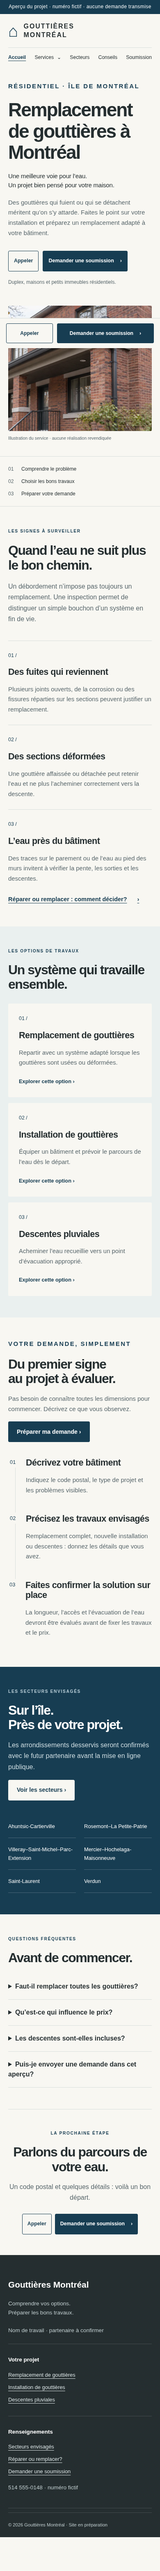
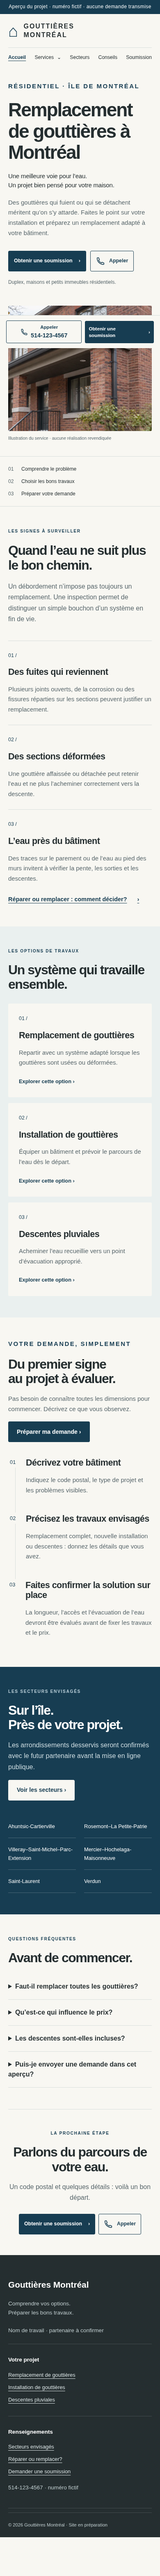
feat: emphasize mock phone calls on desktop and mobile

diff --git a/src/styles/global.css b/src/styles/global.css
@@ -1,3 +1,9 @@
 :root{--ink:#252e30;--blue:#173d52;--paper:#f8f7f2;--muted:#58666b;--line:#d8dedc;--soft:#eaf0ef}*{box-sizing:border-box}html{scroll-behavior:smooth;scroll-padding-bottom:110px}body{margin:0;background:var(--paper);color:var(--ink);font-family:Arial,Helvetica,sans-serif;line-height:1.65}a{color:inherit;text-underline-offset:4px}button,input,textarea,select{font:inherit}button,a,summary{-webkit-tap-highlight-color:transparent}button,summary{cursor:pointer}:focus-visible{outline:3px solid #bb6a23;outline-offset:5px}h1,h2,h3,p,figure{margin:0}h1,h2,h3{line-height:1.12;letter-spacing:-.045em}h1{font-size:clamp(2.7rem,4.1vw,4.45rem);font-weight:700}h2{font-size:clamp(2rem,3vw,3rem);font-weight:600}h3{font-size:1.35rem;letter-spacing:-.025em}p{margin:1.1rem 0;color:var(--muted)}.wrap{width:min(1240px,calc(100% - 96px));margin-inline:auto}.preview-notice{text-align:center;background:var(--blue);color:#fff;font-size:.75rem;padding:7px 16px;letter-spacing:.035em}.header-top{display:flex;align-items:center;gap:30px;padding-block:26px}.brand{display:flex;gap:12px;align-items:center;text-decoration:none;font-size:.86rem;line-height:1.3;letter-spacing:.12em}.brand strong{display:block;font-size:1.2rem;letter-spacing:.09em}.brand-mark{font-size:3rem;color:var(--blue);line-height:1}.header-note{font-size:.78rem;line-height:1.4;flex:1;margin:0;padding-left:25px;border-left:1px solid var(--line)}.actions{display:flex;flex-wrap:wrap;gap:12px;align-items:center}.button{display:inline-flex;align-items:center;justify-content:center;gap:15px;min-height:50px;padding:13px 20px;border:1px solid var(--blue);border-radius:3px;font-size:.88rem;font-weight:600;text-decoration:none;line-height:1.35}.button:hover{filter:brightness(.9)}.primary{background:var(--blue);color:white}.outline{background:transparent;color:var(--blue)}.light{background:var(--paper);color:var(--blue);border-color:var(--paper)}.compact .button{min-height:43px;font-size:.78rem;padding:10px 14px}.compact .phone-number{display:none}nav{display:flex;gap:38px;align-items:center;border-top:1px solid var(--line);padding-block:14px;font-size:.86rem}nav>a,summary{text-decoration:none}nav a[aria-current=page]{font-weight:700;color:var(--blue);text-decoration:underline}.services-menu{position:relative}.services-menu summary{list-style:none}.services-menu summary:after{content:'⌄';margin-left:8px}.services-menu>div{position:absolute;z-index:5;background:var(--paper);border:1px solid var(--line);padding:12px;min-width:255px;top:38px;box-shadow:0 12px 25px #173d5215}.services-menu a{display:block;padding:9px;text-decoration:none}.services-menu a:hover{background:var(--soft)}.hero{display:grid;grid-template-columns:1fr 1fr;gap:55px;align-items:center;padding-block:45px 65px}.eyebrow{color:var(--blue);font-weight:700;font-size:.71rem;letter-spacing:.16em;margin:0 0 23px}.hero h1{max-width:570px}.hero-copy>p:not(.eyebrow){max-width:480px}.lead{font-size:1.32rem;line-height:1.5;color:var(--ink);letter-spacing:-.015em;margin-top:25px}.hero .actions{margin-top:30px}.hero .actions .phone-number{display:none}.fine{font-size:.78rem}.service-photo{min-width:0;position:relative}.service-photo picture,.service-photo img{display:block;width:100%}.service-photo img{height:auto;object-fit:cover;aspect-ratio:1/1.07;object-position:67% center;border-radius:3px}.service-photo figcaption{font-size:.65rem;margin-top:9px;color:var(--muted)}.photo-pending{aspect-ratio:1/1.07;background:linear-gradient(145deg,#dce3e1,#b8c7cb);display:flex;flex-direction:column;justify-content:center;align-items:center;border-radius:3px}.photo-pending>span{font-size:6rem;line-height:1;color:var(--blue)}.photo-pending p{color:var(--blue);margin-bottom:0}.photo-pending small{color:var(--muted)}.principles{border-block:1px solid var(--line)}.principles>.wrap{display:flex;justify-content:space-between;gap:20px;padding-block:23px}.principles span{color:var(--muted);font-size:.8rem}.principles strong{color:var(--ink);margin-left:15px;font-weight:500}.section{padding-block:85px}.section-heading{display:grid;grid-template-columns:1.15fr 1fr;gap:0 100px;align-items:end;margin-bottom:38px}.section-heading .eyebrow{grid-column:1/-1;margin-bottom:20px}.section-heading p:not(.eyebrow){margin:0;max-width:460px}.cards{display:grid;grid-template-columns:repeat(3,1fr);gap:30px}.cards article{padding:30px 0;border-top:1px solid var(--line)}.number{font-size:.78rem;display:block;color:var(--blue);margin-bottom:30px}.cards h3{max-width:250px}.cards p{font-size:.93rem}.text-link{display:inline-flex;gap:25px;align-items:center;font-size:.9rem;color:var(--blue);font-weight:600}.tinted{background:var(--soft)}.service-cards{margin-top:40px}.service-cards>a{padding:30px;background:var(--paper);border-radius:3px;text-decoration:none;border:1px solid transparent}.service-cards>a:hover{border-color:var(--blue)}.service-cards .text-link{margin-top:12px;font-size:.8rem}.steps,.sectors-intro,.faq{display:grid;grid-template-columns:1fr 1fr;gap:100px}.steps>div>p{max-width:400px}.steps ol{margin:0;padding-left:32px;counter-reset:steps;list-style:none}.steps li{position:relative;padding:0 0 24px 25px;border-left:1px solid var(--line);counter-increment:steps}.steps li:before{content:'0' counter(steps);position:absolute;left:-17px;top:0;background:var(--paper);color:var(--blue);font-size:.8rem;padding:3px}.steps li:last-child{border:0;padding-bottom:0}.steps li h3{padding-top:3px}.steps p{font-size:.94rem}.blue{background:var(--blue);color:white}.blue p{color:#cedde2}.blue .eyebrow{color:#b9ced8}.sector-list{list-style:none;padding:0;margin:0;display:grid;grid-template-columns:1fr 1fr;gap:0 30px;align-content:center}.sector-list li{padding:17px 0;border-bottom:1px solid #ffffff38;font-size:.88rem}.faq details{border-bottom:1px solid var(--line);padding:19px 0}.faq summary{font-weight:600;line-height:1.5;padding-right:20px}.faq details p{font-size:.92rem}.closing{border-top:1px solid var(--line);padding-block:65px 80px;text-align:center}.closing .actions{justify-content:center;margin-top:25px}.closing .phone-number{display:none}footer{background:#252e30;color:white;padding-top:55px}.footer-grid{display:grid;grid-template-columns:1.5fr 1fr 1fr;gap:55px}footer p,footer small{color:#c0cdcf;font-size:.85rem}.footer-brand{font-size:1.3rem;font-weight:600;text-decoration:none}footer h2{font-size:.85rem;letter-spacing:0;margin-bottom:18px}footer .footer-grid>div>a:not(.footer-brand){display:block;font-size:.8rem;color:#dbe4e5;margin-block:9px}.footer-bottom{border-top:1px solid #ffffff25;margin-top:35px;padding-block:20px;font-size:.7rem;color:#c0cdcf}.mobile-actions{display:none}.skip{position:absolute;left:12px;top:-100px;padding:12px;background:white;z-index:20}.skip:focus{top:10px}dialog{border:1px solid var(--line);border-radius:5px;background:var(--paper);color:var(--ink);max-width:min(480px,90vw);padding:30px}dialog::backdrop{background:#162d3bc0}dialog h2{font-size:1.8rem}.article-head{padding-block:65px 45px;max-width:1000px}.article-head h1{max-width:850px}.article-head>p{max-width:740px}.article-layout{display:flex;gap:65px;align-items:flex-start;padding-bottom:85px}.prose{max-width:760px}.prose section{margin-bottom:42px}.prose h2,.sectors-page h2{font-size:1.8rem}.prose aside{border-top:1px solid var(--line);padding-top:35px}.article-layout>.service-photo{flex:1;min-width:30%;position:sticky;top:25px}.article-layout:has(.service-photo)>.prose{flex:1;max-width:650px}.sectors-page{padding-top:0;max-width:1000px}.sectors-page .sector-list{margin:25px 0 55px}.sectors-page li{border-color:var(--line)}.quote-layout{display:grid;grid-template-columns:1fr 1fr;gap:85px;padding-block:65px 85px}.quote-layout h1{font-size:clamp(2.6rem,4vw,4rem)}.recipient{border-top:1px solid var(--line);margin-top:35px;padding-top:25px}.recipient h2{font-size:1.2rem;letter-spacing:-.02em}.recipient p{font-size:.9rem}.form-card{background:white;border:1px solid var(--line);padding:32px;border-radius:4px}.form-notice{background:var(--soft);padding:15px;font-size:.86rem;margin-top:0}label{display:block;font-size:.88rem;font-weight:600;margin:18px 0 6px}label span{font-weight:400}input,select,textarea{display:block;width:100%;border:1px solid #849297;border-radius:3px;padding:11px;background:white;color:var(--ink)}textarea{resize:vertical}form small{font-size:.75rem;color:var(--muted)}form>.button{margin-top:23px;width:100%}button:disabled{opacity:.6;cursor:wait}#form-status:empty{display:none}#form-status{font-size:.9rem;background:var(--soft);padding:15px}.consent{display:flex;gap:10px;font-weight:400}.consent input{width:18px;flex-shrink:0;margin-top:6px}@media(min-width:1500px){.hero{padding-block:65px 80px}}@media(max-width:1000px){.wrap{width:calc(100% - 48px)}.header-note{display:none}.header-top{justify-content:space-between}.hero{gap:28px}.hero .actions{gap:10px}.section-heading{gap:0 45px}.cards{gap:20px}.service-cards>a{padding:22px}.steps,.sectors-intro,.faq{gap:40px}.quote-layout{gap:35px}.article-layout{gap:35px}.footer-grid{gap:25px}}@media(max-width:700px){body{padding-bottom:calc(82px + env(safe-area-inset-bottom))}.wrap{width:calc(100% - 40px)}.header-top{padding-block:20px}.header-top>.actions{display:none}.brand{font-size:.73rem}.brand strong{font-size:1rem}.brand-mark{font-size:2.5rem}nav{gap:0;justify-content:space-between;font-size:.76rem;padding-block:13px}.services-menu>div{left:-65px;top:32px}.hero{grid-template-columns:1fr;gap:28px;padding-block:35px}.hero h1{font-size:clamp(2.35rem,11.8vw,2.9rem);max-width:480px}.eyebrow{font-size:.64rem;margin-bottom:19px}.lead{font-size:1.16rem;margin-top:20px}.hero-copy>p{font-size:.94rem}.hero .actions{align-items:stretch}.hero .button{font-size:.78rem;padding-inline:13px}.hero .fine{font-size:.75rem}.service-photo img,.photo-pending{aspect-ratio:1.15/1}.service-photo img{object-position:68% center}.principles>.wrap{display:grid;gap:10px;padding-block:20px}.principles span{font-size:.76rem}.section{padding-block:52px}.section-heading{display:block}.section-heading>p:not(.eyebrow){margin-top:20px}.cards{grid-template-columns:1fr;gap:0}.cards article{padding-block:25px}.cards h3{max-width:none}.number{margin-bottom:18px}.cards p{margin-bottom:0}.service-cards{gap:14px;margin-top:28px}.service-cards>a{padding:25px}.service-cards .text-link{margin-top:22px}.steps,.sectors-intro,.faq{grid-template-columns:1fr;gap:35px}.steps ol{padding-left:17px}.sector-list{grid-template-columns:1fr}.sectors-intro .sector-list{grid-template-columns:1fr 1fr;gap:0 20px}.sector-list li{font-size:.8rem}.faq{gap:20px}.closing{padding-block:50px}.closing h2{font-size:2rem}.closing .button{font-size:.77rem;padding-inline:12px}.closing .actions{gap:8px}.footer-grid{grid-template-columns:1fr;gap:30px}.footer-grid>div{border-bottom:1px solid #ffffff25;padding-bottom:20px}.footer-bottom{margin-top:10px}.mobile-actions{position:fixed;bottom:0;left:0;right:0;z-index:10;display:block;background:var(--paper);border-top:1px solid var(--line);padding:12px 15px calc(12px + env(safe-area-inset-bottom))}.mobile-actions .actions{display:grid;grid-template-columns:.65fr 1.35fr;gap:10px}.mobile-actions .button{min-height:48px;font-size:.76rem;padding:10px 8px}.article-head{padding-block:40px 30px}.article-head h1{font-size:2.65rem}.article-layout{display:flex;flex-direction:column;padding-bottom:55px;gap:25px}.article-layout>.service-photo{position:static;width:100%;order:-1}.prose h2,.sectors-page h2{font-size:1.65rem}.prose .actions{align-items:stretch;flex-direction:column}.prose .phone-number{display:none}.quote-layout{grid-template-columns:1fr;gap:30px;padding-block:40px 55px}.form-card{padding:23px}.sectors-page{padding-top:0}.sectors-page .sector-list{margin-top:20px}}@media(prefers-reduced-motion:reduce){html{scroll-behavior:auto}}
 
 .brand-name{display:block;max-width:160px;font-weight:700;font-size:1rem;line-height:1.3;text-transform:uppercase;letter-spacing:.12em}
+
+/* Appels de la maquette : numéro centralisé et zones cliquables complètes. */
+.call-button{gap:10px}.call-copy{display:flex;align-items:center;gap:8px}.call-copy small{font-size:.65rem;font-weight:400;letter-spacing:0}
+.prominent .call-button{border:0;padding:4px 0 4px 20px;text-align:right}.prominent .call-copy{display:flex;flex-direction:column;align-items:flex-end;gap:2px}.prominent .phone-number{display:block;font-size:1.8rem;font-weight:800;line-height:1.15;white-space:nowrap}.prominent .call-label{font-size:.75rem;font-weight:500}.prominent .phone-icon{width:29px;height:29px}.prominent .primary{align-self:center}.hero .phone-number,.closing .phone-number{display:none}
+@media(max-width:1000px) and (min-width:701px){.prominent .phone-number{font-size:1.5rem}.prominent .primary{font-size:.73rem;padding-inline:10px}}
+@media(max-width:700px){.mobile-actions .actions{grid-template-columns:1.1fr 1fr;gap:8px}.mobile-actions .call-button{order:-1;padding:8px;gap:7px}.mobile-actions .call-copy{display:flex;flex-direction:column;gap:2px}.mobile-actions .phone-number{display:block;font-size:.9rem;font-weight:800;white-space:nowrap}.mobile-actions .call-label{font-size:.72rem}.mobile-actions .phone-icon{width:18px;height:18px}.mobile-actions .primary{font-size:.73rem}.mobile-actions .button{min-height:54px}body{padding-bottom:calc(94px + env(safe-area-inset-bottom))}}

diff --git a/src/scripts/client.ts b/src/scripts/client.ts
@@ -2,7 +2,7 @@ declare global { interface Window { dataLayer?: Record<string, unknown>[] } }
 export function track(event: string) { (window.dataLayer ||= []).push({ event, page_path: location.pathname }); }
 export function init() {
  document.querySelectorAll<HTMLElement>('[data-call]').forEach(el => el.addEventListener('click', () => {
-  if (el instanceof HTMLAnchorElement) track('call_click');
+  if (el instanceof HTMLAnchorElement) { if (el.dataset.mockCall !== 'true') track('call_click'); }
   else (document.querySelector('#call-dialog') as HTMLDialogElement).showModal();
  }));
  const form = document.querySelector<HTMLFormElement>('#quote-form');

diff --git a/README.md b/README.md
@@ -59,13 +59,11 @@ La compilation refuse une indexation sans mode production, URL publique valide e
 
 ## Appels et suivi
 
-Le numéro livré `514 555-0148` est fictif. En aperçu, « Appeler » ouvre une boîte de dialogue explicite, sans lien `tel:` et sans événement de conversion. Pour activer les appels :
+Le numéro livré `514-123-4567` est fictif. À la demande du propriétaire, les liens d’appel de la maquette utilisent `tel:+15141234567`, y compris en mode aperçu. Le numéro est visible en haut à droite sur ordinateur et dans la barre fixe sur cellulaire. Ces clics de démonstration ne déclenchent pas `call_click`.
 
-- Définir le vrai numéro dans `phone.display` et au format E.164 dans `phone.e164`.
-- Vérifier le routage et mettre `phone.verified: true` et `mode: 'production'`.
-- Si vous utilisez un numéro de suivi, utiliser ce numéro dans les deux champs et configurer son transfert vers le partenaire chez votre fournisseur. Tester un vrai appel et le traitement des appels manqués.
+**Un seul endroit à modifier : `business.phone.display` dans `src/config.mjs`.** Le format téléphonique `e164` est dérivé automatiquement; ne pas le saisir séparément. Pour un vrai numéro de suivi, définir son affichage ici, vérifier le transfert chez le fournisseur, puis passer `phone.verified` à `true` et `mode` à `production`. Le format est prévu pour un numéro nord-américain à 10 chiffres.
 
-Le clic sur un lien téléphonique réel pousse `{ event: 'call_click', page_path }` dans `window.dataLayer`. Il mesure un clic, pas un appel abouti. Aucun script de mesure tiers n’est livré; connecter ensuite votre outil de mesure et définir la gestion du consentement appropriée. Ne pas placer les noms, téléphones ou descriptions dans les événements.
+Un clic en production sur un numéro vérifié pousse `{ event: 'call_click', page_path }` dans `window.dataLayer`. Il mesure un clic, pas un appel abouti. Aucun script de mesure tiers n’est livré. Ne pas placer les noms, téléphones ou descriptions dans les événements.
 
 ## Destination des demandes
 

diff --git a/docs/validation.md b/docs/validation.md
@@ -3,8 +3,8 @@
 Date : 9 novembre 2026. Node 24.22.1, Astro 5, Chromium local via Playwright.
 
 - Compilation statique : réussie, six pages.
-- 4 tests de configuration : aperçu sans appels/envois; numéro fictif bloqué; destination HTTPS et destinataire obligatoires; validation de l’origine canonique.
-- 8 tests navigateur : pages et liens internes; métadonnées uniques; robots et sitemap hors index; clavier et dialogue fictif; champs obligatoires, téléphone et code postal; simulation sans POST et sans conversion; réponses réelles simulées (500, 200 non confirmé, succès confirmé); écran étroit de 320 px; barre mobile sans masquer le pied de page; formulaire désactivé sans JavaScript.
+- 4 tests de configuration : aperçu avec liens téléphoniques fictifs, sans envois réels; numéro fictif bloqué; destination HTTPS et destinataire obligatoires; validation de l’origine canonique.
+- 8 tests navigateur : pages et liens internes; métadonnées uniques; robots et sitemap hors index; clavier et destinations téléphoniques de la maquette; champs obligatoires, téléphone et code postal; simulation sans POST et sans conversion; réponses réelles simulées (500, 200 non confirmé, succès confirmé); écran étroit de 320 px; barre mobile sans masquer le pied de page; formulaire désactivé sans JavaScript.
 - Captures de l’accueil à 390 × 844 et 1440 × 1000, inspection visuelle des deux formats.
 - Aucun service d’envoi externe configuré et aucun appel réel effectué.
 
